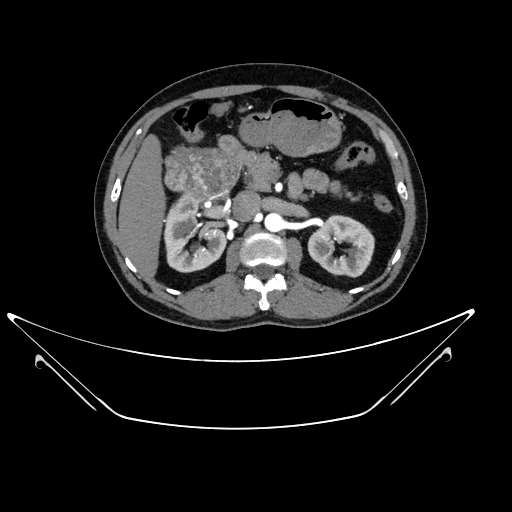
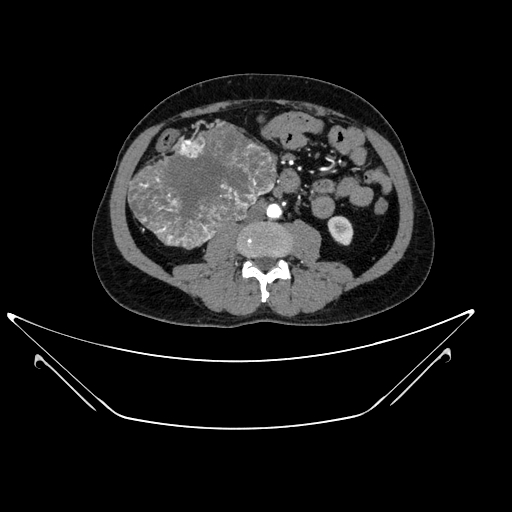
prediction final added

diff --git a/src/cnnClassifier/components/model_training.py b/src/cnnClassifier/components/model_training.py
@@ -8,24 +8,79 @@ class Training:
     def __init__(self, config: TrainingConfig):
         self.config = config
 
+    # ==========================================================
+    # LOAD BASE MODEL + FINE-TUNING
+    # ==========================================================
+
     def get_base_model(self):
+
         self.model = tf.keras.models.load_model(
             self.config.updated_base_model_path
         )
 
+        # ------------------------------------------------------
+        # Freeze all layers first
+        # ------------------------------------------------------
+
+        for layer in self.model.layers:
+            layer.trainable = False
+
+        # ------------------------------------------------------
+        # Fine-tune the last 6 layers
+        # ------------------------------------------------------
+
+        for layer in self.model.layers[-6:]:
+            layer.trainable = True
+
+        # ------------------------------------------------------
+        # Compile model
+        # ------------------------------------------------------
+
+        self.model.compile(
+            optimizer=tf.keras.optimizers.Adam(
+                learning_rate=1e-5
+            ),
+            loss="categorical_crossentropy",
+            metrics=["accuracy"]
+        )
+
+        print("\n========================================")
+        print("FINE-TUNING CONFIGURATION")
+        print("========================================")
+
+        trainable_params = sum(
+            tf.keras.backend.count_params(w)
+            for w in self.model.trainable_weights
+        )
+
+        non_trainable_params = sum(
+            tf.keras.backend.count_params(w)
+            for w in self.model.non_trainable_weights
+        )
+
+        print(
+            "Trainable parameters:",
+            trainable_params
+        )
+
+        print(
+            "Non-trainable parameters:",
+            non_trainable_params
+        )
+
+        print("========================================\n")
+
+    # ==========================================================
+    # TRAIN / VALIDATION DATA GENERATORS
+    # ==========================================================
+
     def train_valid_generator(self):
 
-        # --------------------------------------------------
-        # Image preprocessing
-        # --------------------------------------------------
         datagenerator_kwargs = dict(
             rescale=1.0 / 255.0,
             validation_split=0.20
         )
 
-        # --------------------------------------------------
-        # Image loading parameters
-        # --------------------------------------------------
         dataflow_kwargs = dict(
             target_size=self.config.params_image_size[:-1],
             batch_size=self.config.params_batch_size,
@@ -33,9 +88,10 @@ class Training:
             class_mode="categorical"
         )
 
-        # --------------------------------------------------
+        # ------------------------------------------------------
         # Validation generator
-        # --------------------------------------------------
+        # ------------------------------------------------------
+
         valid_datagenerator = tf.keras.preprocessing.image.ImageDataGenerator(
             **datagenerator_kwargs
         )
@@ -47,9 +103,10 @@ class Training:
             **dataflow_kwargs
         )
 
-        # --------------------------------------------------
+        # ------------------------------------------------------
         # Training generator
-        # --------------------------------------------------
+        # ------------------------------------------------------
+
         if self.config.params_is_augmentation:
 
             train_datagenerator = tf.keras.preprocessing.image.ImageDataGenerator(
@@ -73,9 +130,10 @@ class Training:
             **dataflow_kwargs
         )
 
-        # --------------------------------------------------
-        # IMPORTANT: Print class mapping
-        # --------------------------------------------------
+        # ------------------------------------------------------
+        # IMPORTANT: Check class mapping
+        # ------------------------------------------------------
+
         print("\n========================================")
         print("CLASS INFORMATION")
         print("========================================")
@@ -100,14 +158,10 @@ class Training:
             self.valid_generator.samples
         )
 
-        print(
-            "CLASS NAMES:",
-            self.train_generator.class_indices.keys()
-        )
+        # ------------------------------------------------------
+        # Count images per class
+        # ------------------------------------------------------
 
-        # --------------------------------------------------
-        # Print number of images in each class
-        # --------------------------------------------------
         print("\nImages per class:")
 
         for class_name, class_index in self.train_generator.class_indices.items():
@@ -122,20 +176,41 @@ class Training:
 
         print("========================================\n")
 
+    # ==========================================================
+    # SAVE MODEL
+    # ==========================================================
+
     @staticmethod
-    def save_model(path: Path, model: tf.keras.Model):
+    def save_model(
+        path: Path,
+        model: tf.keras.Model
+    ):
+
         model.save(path)
+
+    # ==========================================================
+    # TRAIN MODEL
+    # ==========================================================
 
     def train(self):
 
         import math
         import numpy as np
+
         from sklearn.utils.class_weight import compute_class_weight
 
-        # --------------------------------------------------
+        from tensorflow.keras.callbacks import (
+            EarlyStopping,
+            ReduceLROnPlateau
+        )
+
+        # ------------------------------------------------------
         # Calculate class weights
-        # --------------------------------------------------
-        classes = np.unique(self.train_generator.classes)
+        # ------------------------------------------------------
+
+        classes = np.unique(
+            self.train_generator.classes
+        )
 
         class_weights = compute_class_weight(
             class_weight="balanced",
@@ -144,18 +219,24 @@ class Training:
         )
 
         class_weights = dict(
-            zip(classes, class_weights)
+            zip(
+                classes,
+                class_weights
+            )
         )
 
         print("\n========================================")
         print("CLASS WEIGHTS")
         print("========================================")
+
         print(class_weights)
+
         print("========================================\n")
 
-        # --------------------------------------------------
-        # Calculate steps
-        # --------------------------------------------------
+        # ------------------------------------------------------
+        # Calculate training steps
+        # ------------------------------------------------------
+
         self.steps_per_epoch = math.ceil(
             self.train_generator.samples /
             self.train_generator.batch_size
@@ -176,21 +257,50 @@ class Training:
             self.validation_steps
         )
 
-        # --------------------------------------------------
-        # Train model
-        # --------------------------------------------------
+        # ------------------------------------------------------
+        # Early stopping
+        # ------------------------------------------------------
+
+        early_stopping = EarlyStopping(
+            monitor="val_loss",
+            patience=2,
+            restore_best_weights=True,
+            verbose=1
+        )
+
+        # ------------------------------------------------------
+        # Reduce learning rate
+        # ------------------------------------------------------
+
+        reduce_lr = ReduceLROnPlateau(
+            monitor="val_loss",
+            factor=0.2,
+            patience=1,
+            min_lr=1e-7,
+            verbose=1
+        )
+
+        # ------------------------------------------------------
+        # TRAIN
+        # ------------------------------------------------------
+
         self.model.fit(
             self.train_generator,
             epochs=self.config.params_epochs,
             steps_per_epoch=self.steps_per_epoch,
             validation_data=self.valid_generator,
             validation_steps=self.validation_steps,
-            class_weight=class_weights
+            class_weight=class_weights,
+            callbacks=[
+                early_stopping,
+                reduce_lr
+            ]
         )
 
-        # --------------------------------------------------
-        # Save trained model
-        # --------------------------------------------------
+        # ------------------------------------------------------
+        # SAVE MODEL
+        # ------------------------------------------------------
+
         self.save_model(
             path=self.config.trained_model_path,
             model=self.model
